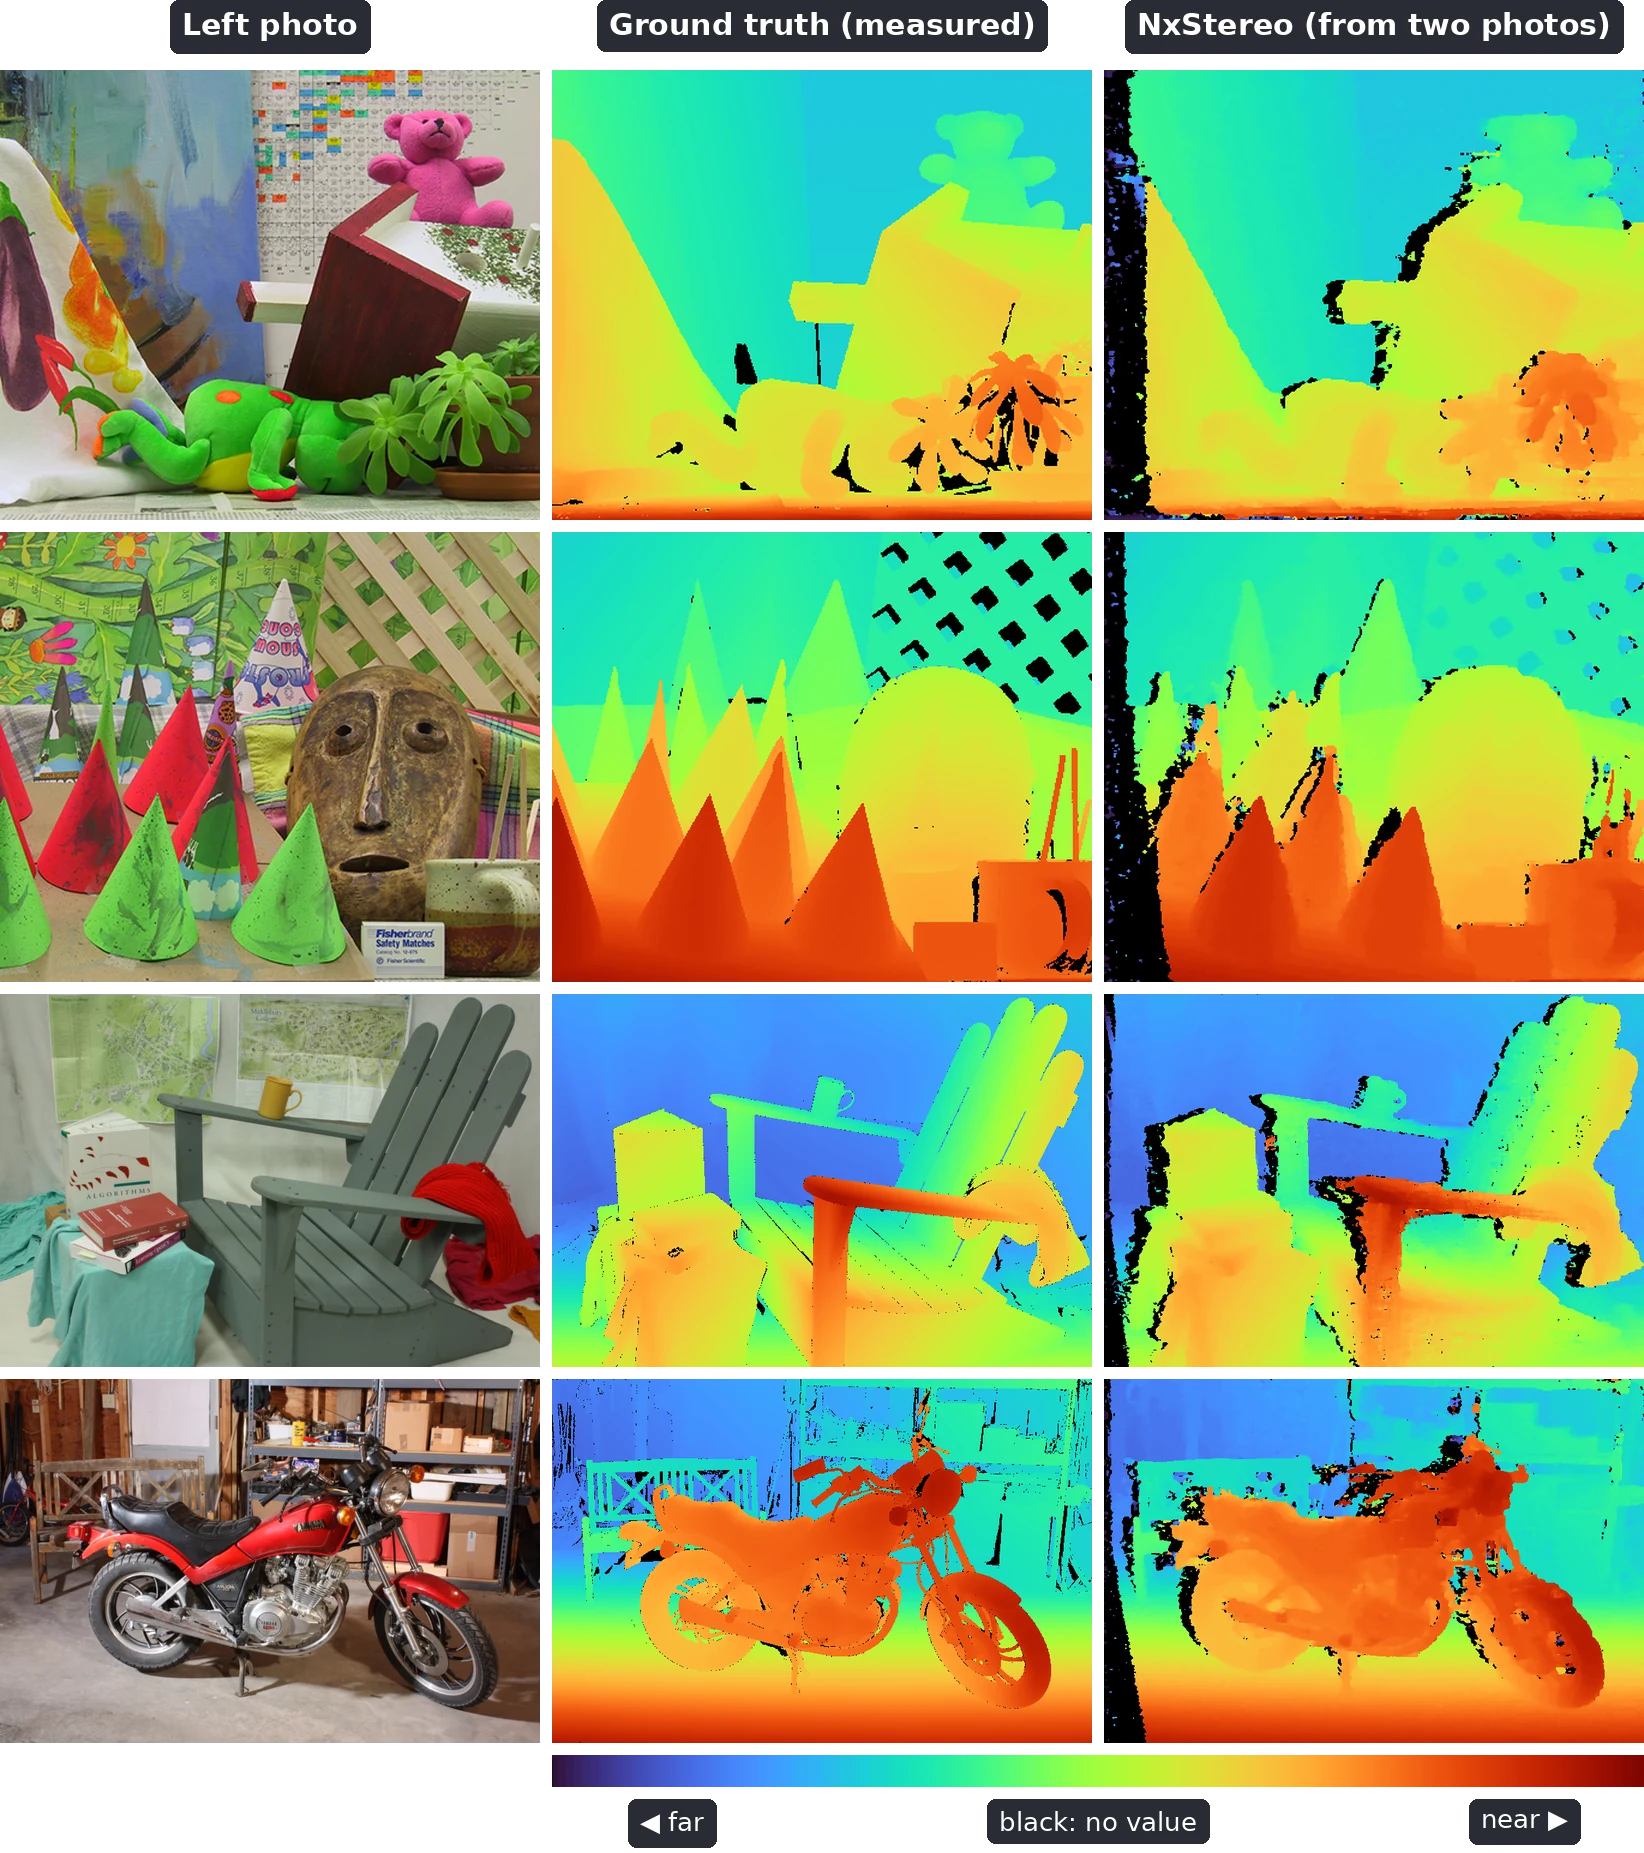
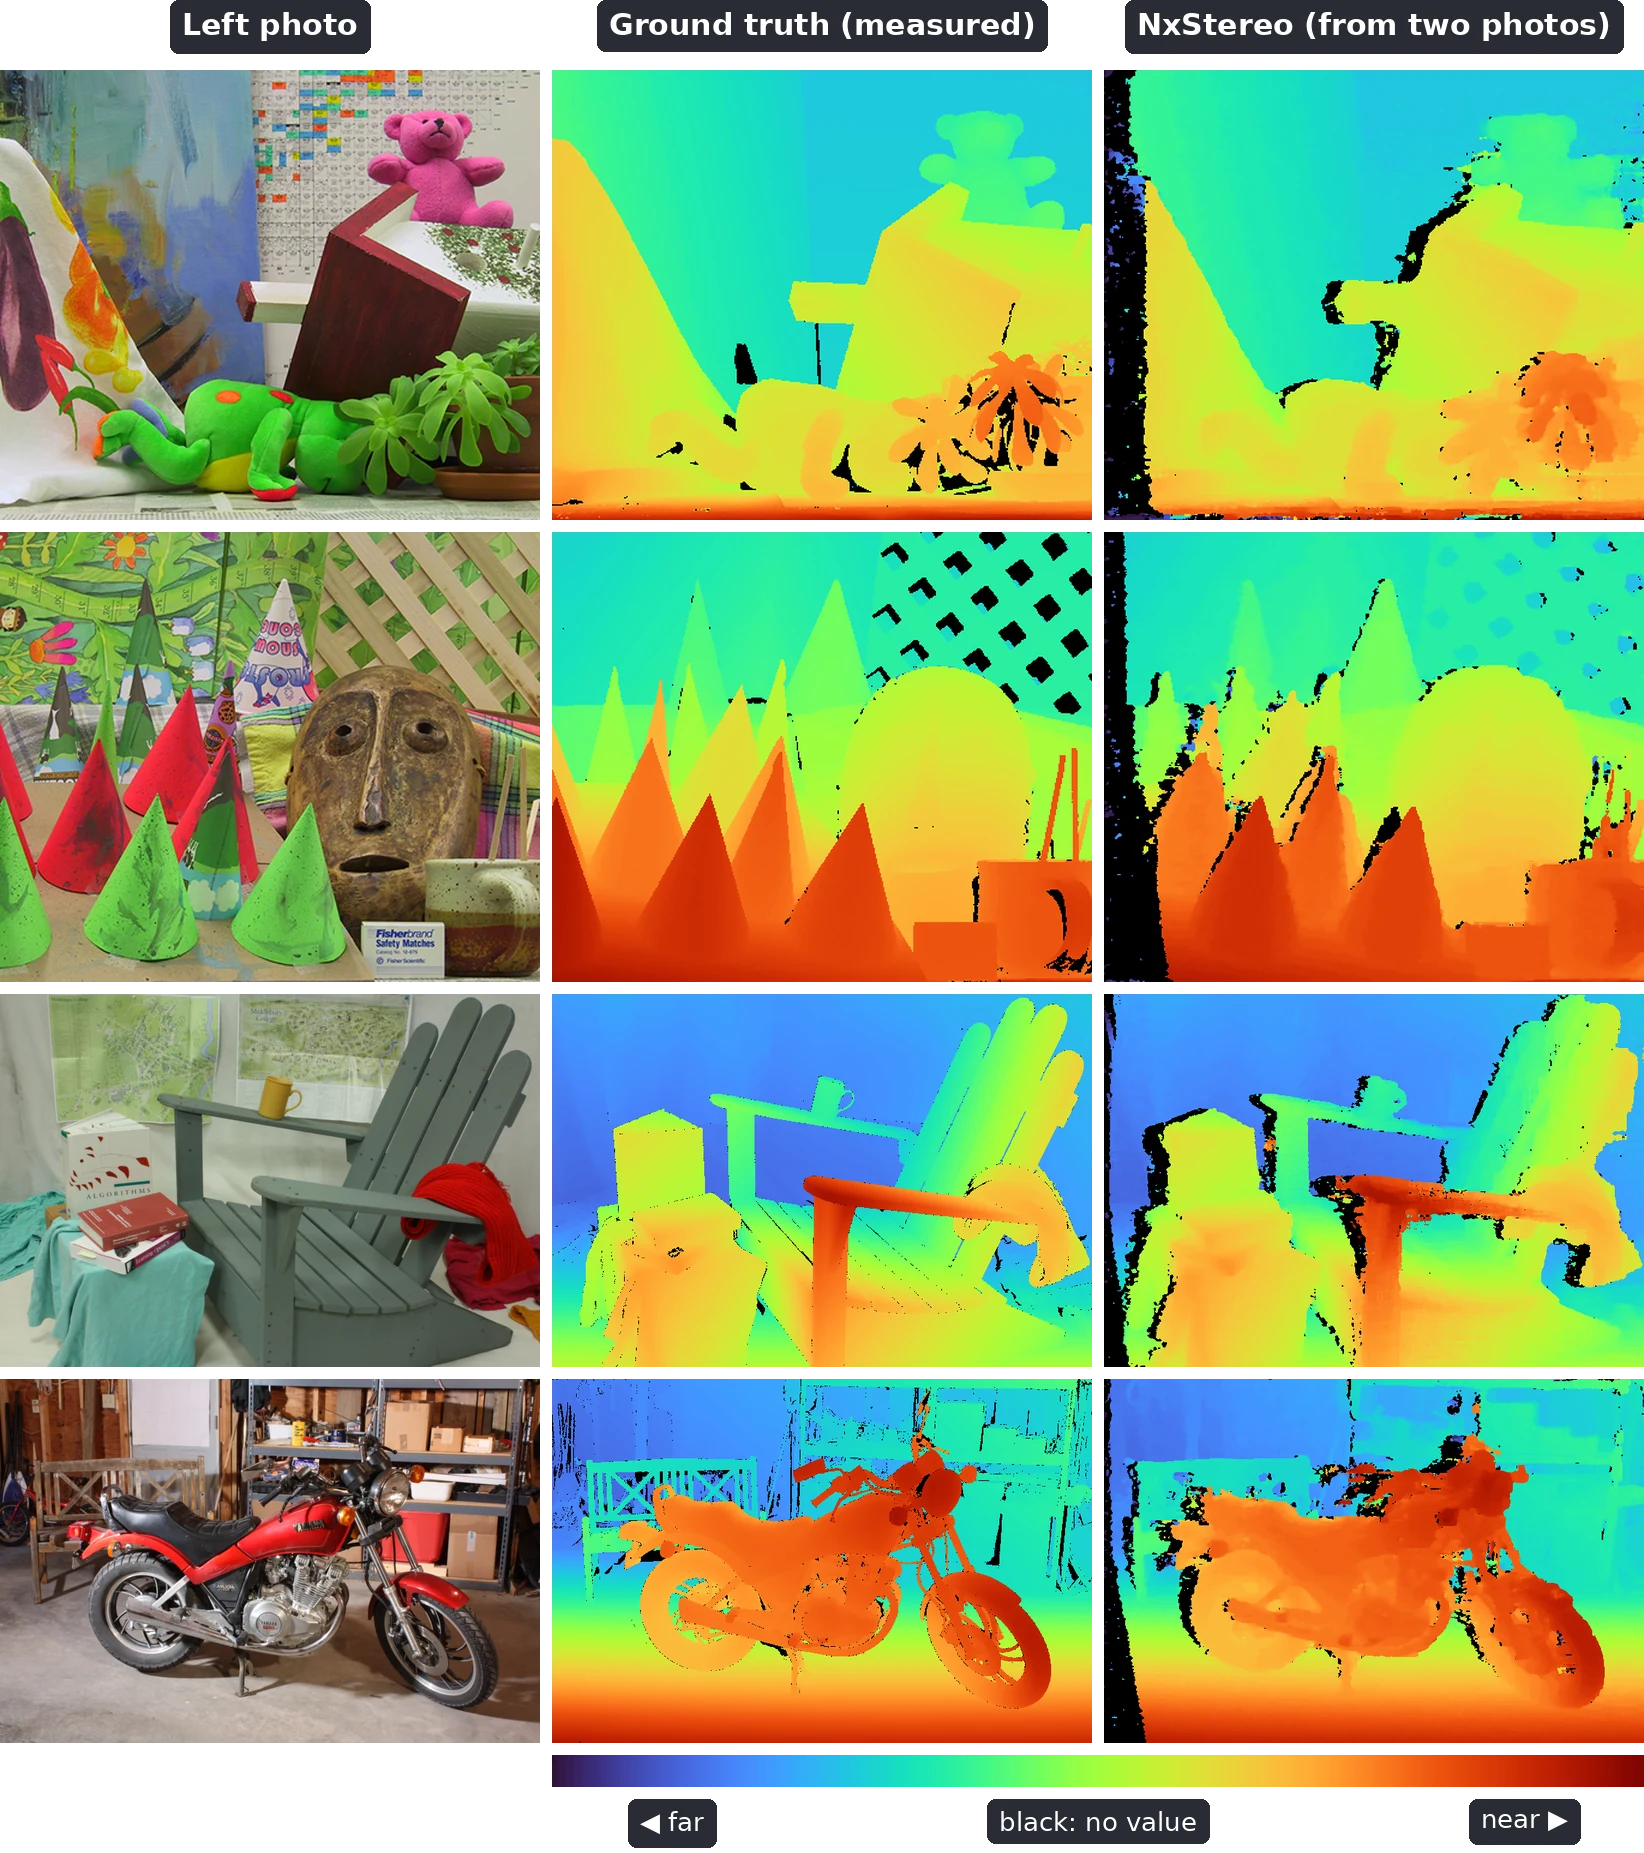
Ignore one-level differences in the Census transform
Sensor noise flips Census bits on dark or flat surfaces, where neighbours
mostly equal the centre. On the benchmark, pixels wrong or missing fall from
13.2% to 11.4% on ETH3D and from 13.4% to 13.0% on Middlebury, and rise from
7.0% to 7.1% on KITTI.

Assisted-by: Claude:claude-opus-5-5

diff --git a/README.md b/README.md
@@ -8,10 +8,11 @@ disparity = NxStereo.sgm(left, right, disparities: 64, p1: 8, p2: 64)
 
 `left` and `right` are rectified `{height, width}` `u8` images; the result is
 an `f32` disparity map with `-1.0` where no reliable match was found. The
-algorithm is libSGM's: a 9x7 Census transform, Hamming costs, three
-aggregation paths with the normalized recurrence, winner selection with a
-uniqueness check and parabolic subpixel refinement, OpenCV's left-right
-consistency check and a 3x3 median.
+algorithm follows libSGM: a 9x7 Census transform that ignores one-level
+differences, so that sensor noise on dark or flat surfaces does not count as
+texture, Hamming costs, three aggregation paths with the normalized
+recurrence, winner selection with a uniqueness check and parabolic subpixel
+refinement, OpenCV's left-right consistency check and a 3x3 median.
 
 `:disparities` is 64 or 128, and images are at most 4096 pixels wide. When
 nearby objects shift by more than 128 pixels between the two images, run on
@@ -151,10 +152,10 @@ Adirondack and Motorcycle from the 2014 datasets at quarter resolution:
 
 | Scene | Pixels matched | Matched pixels off by more than 2 px |
 | --- | --- | --- |
-| Teddy | 92% | 6.4% |
+| Teddy | 92% | 6.6% |
 | Cones | 91% | 5.5% |
-| Adirondack | 94% | 5.5% |
-| Motorcycle | 94% | 7.5% |
+| Adirondack | 94% | 6.1% |
+| Motorcycle | 94% | 7.7% |
 
 The images come from the [Middlebury stereo datasets](https://vision.middlebury.edu/stereo/data/):
 D. Scharstein and R. Szeliski, *High-accuracy stereo depth maps using
